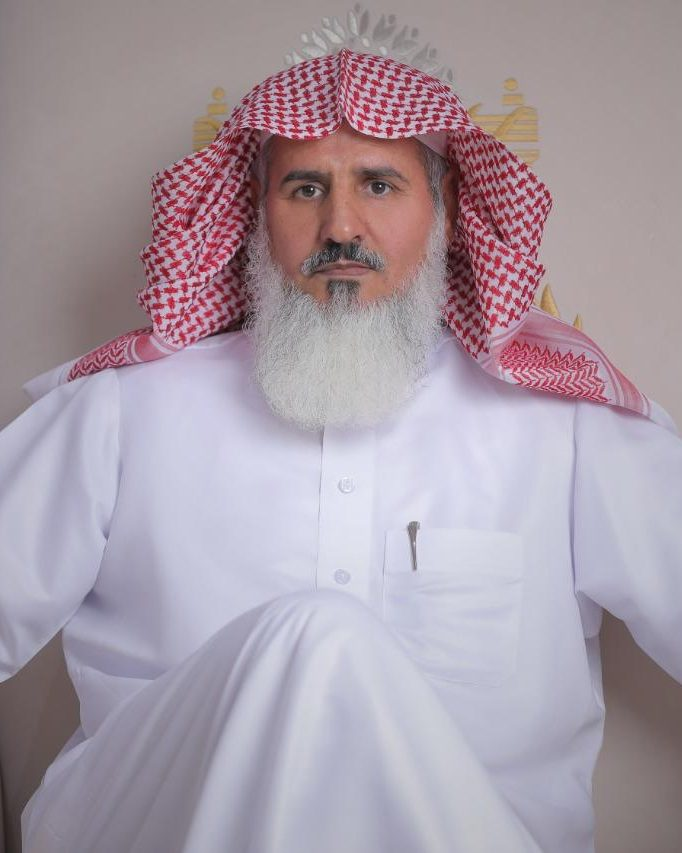
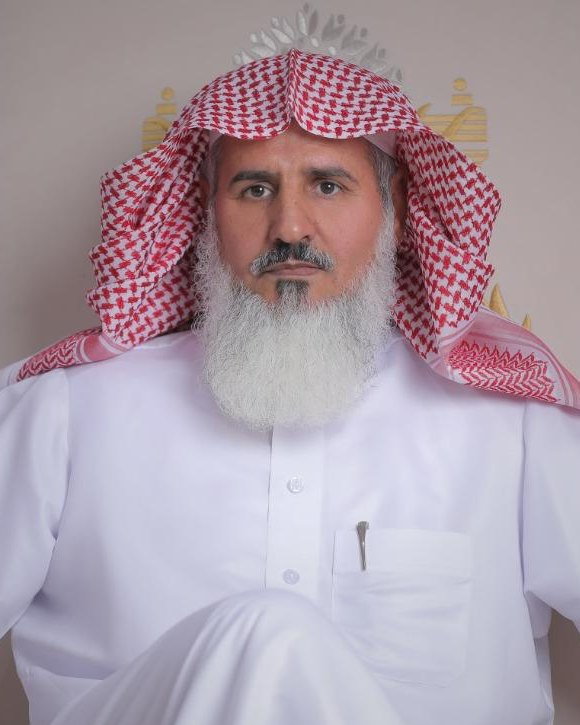
Khalid's photo on his card; General Manager portrait framed a little closer to match
Claude-Session: https://claude.ai/code/session_018jKopPjihvGqP3Gx25eQhP

diff --git a/public/data/settings.js b/public/data/settings.js
@@ -58,7 +58,7 @@ window.SITE_SETTINGS = {
   //         a team card shows the person's initial (set under "initial" in ar.js / en.js).
   team: [
     { id: "gm",       group: "partners", photo: "images/team/general-manager.jpg" },
-    { id: "khalid",   group: "partners", photo: "" },
+    { id: "khalid",   group: "partners", photo: "images/team/khalid.jpg" },
     { id: "trainee1", group: "staff",    photo: "" },
     { id: "trainee2", group: "staff",    photo: "" },
     { id: "trainee3", group: "staff",    photo: "" },

diff --git a/README.md b/README.md
@@ -4,7 +4,7 @@ A bilingual (Arabic RTL / English LTR) one-page website with an employee-login p
 Plain HTML, CSS and JavaScript — no framework, no build step. The `public/` folder is the whole site.
 
 > **Draft status:** the logo, colours, fonts, team names, office photos, phone and email are the firm's own.
-> Still placeholders: the bios, Khalid's photo, licence number, years of experience, working hours and some About text. The site tells search engines not to index it until launch
+> Still placeholders: the bios, licence number, years of experience, working hours and some About text. The site tells search engines not to index it until launch
 > (see *Before launch* below).
 
 ## Folder structure
@@ -79,7 +79,7 @@ to the new domain.
 
 ## Before launch
 
-- [ ] Replace the remaining placeholders: bios, Khalid's photo, licence number, years, hours and the About text marked as temporary
+- [ ] Replace the remaining placeholders: bios, licence number, years, hours and the About text marked as temporary
 - [ ] `showDemoBanner: false` in `data/settings.js`
 - [ ] Remove the `<meta name="robots" content="noindex, nofollow">` line from `index.html` and `login.html`
 - [ ] Remove the `X-Robots-Tag` line from `public/_headers`
